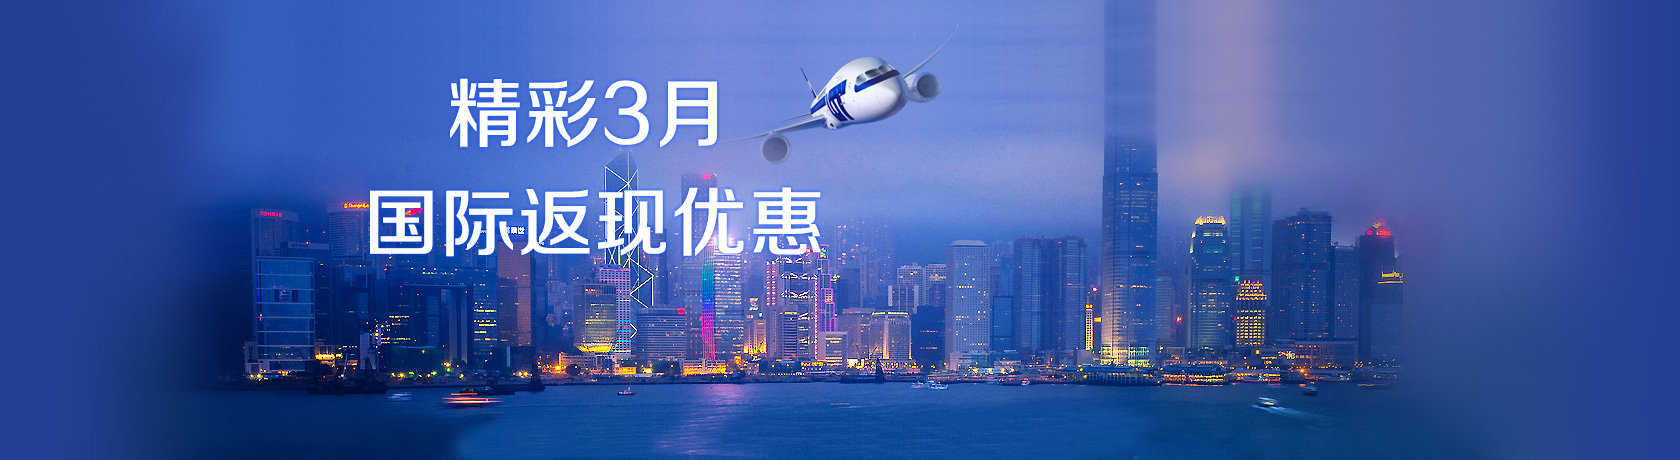
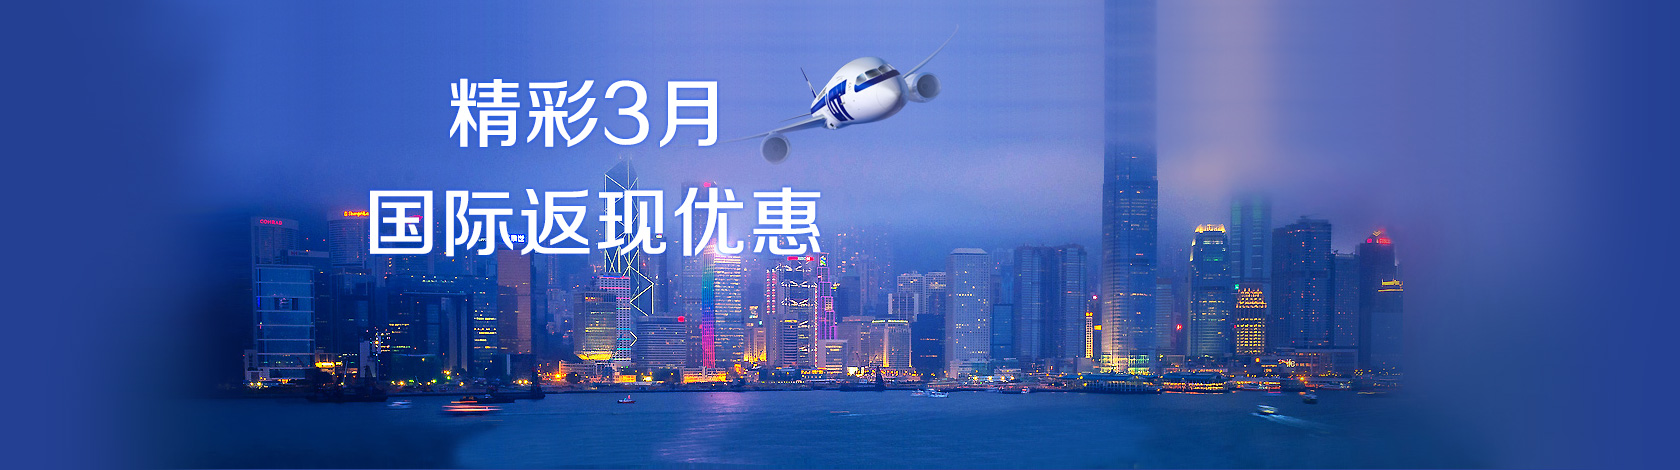
修改 采购商登录页

diff --git a/采购商/登陆注册/登录（新）.html b/采购商/登陆注册/登录（新）.html
@@ -52,7 +52,7 @@
 </div>
 
 <div style="background-color:#fff;position:relative;top:-2px;">
-    <div id="scrollImg" style="height:460px;">
+    <div id="scrollImg" style="height:470px;">
 	    <div class="fullscreen" style="background:url(/static/images/login/store/banner01.jpg) no-repeat 50% 50%;"></div>
         <div class="fullscreen" style="background:url(/static/images/login/store/banner01.jpg) no-repeat 50% 50%;"></div>
 		<div class="fullscreen" style="background:url(/static/images/login/store/banner01.jpg) no-repeat 50% 50%;"></div>
